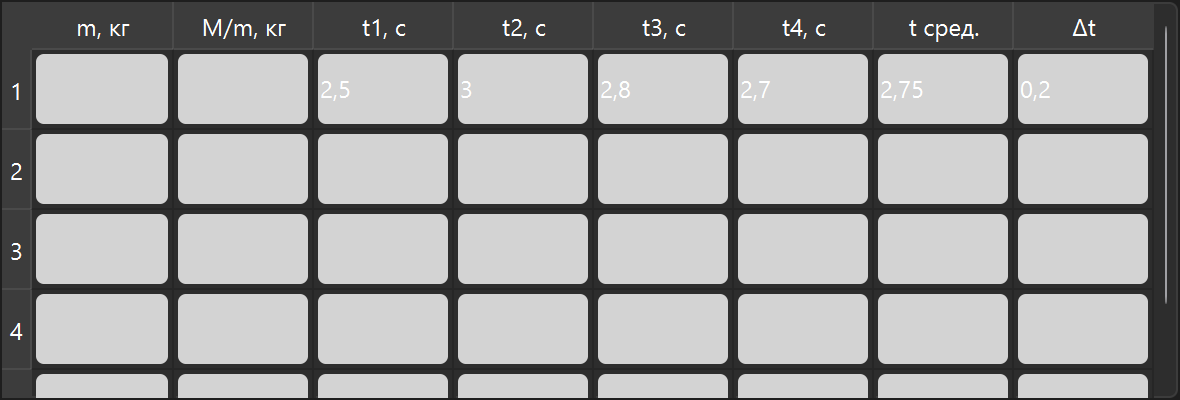
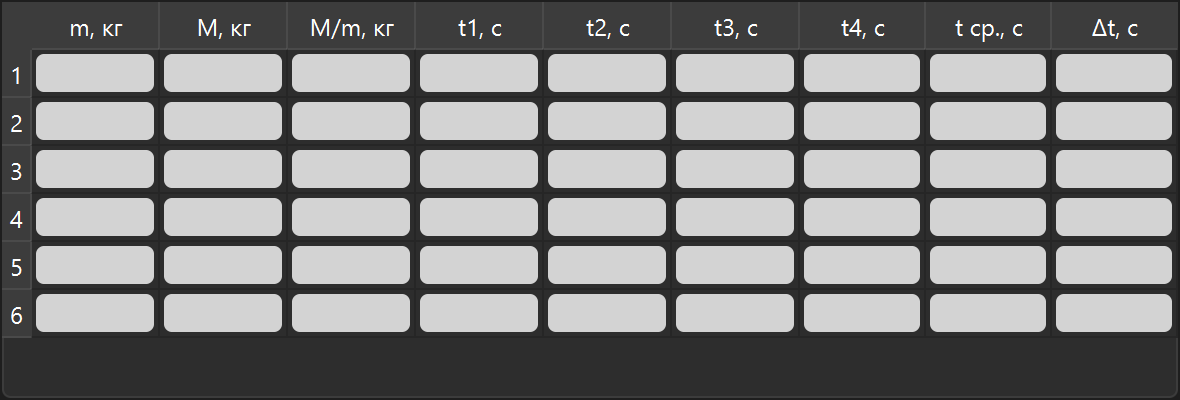
fix table1 and table2 layout titles

diff --git a/Table_1.py b/Table_1.py
@@ -12,7 +12,8 @@ class Ui_Table_1(object):
         self.tableView1.horizontalHeader().setCascadingSectionResizes(False)
         self.tableView1.horizontalHeader().setDefaultSectionSize(40)
         self.tableView1.horizontalHeader().setSortIndicatorShown(False)
-        self.tableView1.verticalHeader().setDefaultSectionSize(40)
+        self.tableView1.verticalHeader().setDefaultSectionSize(20)
+
         self.saveButton = QtWidgets.QPushButton(parent=Table_1)
         self.saveButton.setGeometry(QtCore.QRect(500, 340, 100, 50))
         self.saveButton.setObjectName('saveButton')

diff --git a/Table_2.py b/Table_2.py
@@ -12,7 +12,7 @@ class Ui_Table_2(object):
         self.tableView2.horizontalHeader().setCascadingSectionResizes(False)
         self.tableView2.horizontalHeader().setDefaultSectionSize(40)
         self.tableView2.horizontalHeader().setSortIndicatorShown(False)
-        self.tableView2.verticalHeader().setDefaultSectionSize(40)
+        self.tableView2.verticalHeader().setDefaultSectionSize(20)
         self.saveButton = QtWidgets.QPushButton(parent=Table_2)
         self.saveButton.setGeometry(QtCore.QRect(500, 340, 100, 50))
         self.saveButton.setObjectName('saveButton')

diff --git a/main.py b/main.py
@@ -285,7 +285,7 @@ class Table2(QtWidgets.QMainWindow, Table_2.Ui_Table_2):
 
     def _initModel(self):
         data = initTable2()
-        header = ['m, кг', 'M/m, кг', 't1, с', 't2, с', 't3, с', 't4, с', 't сред.', 'Δt']
+        header = ['m, кг', 'M, кг', 'M/m, кг', 't1, с', 't2, с', 't3, с', 't4, с', 't ср., с', 'Δt, с']
         vheader = None
         customID = 2
         self.rowC = int(len(data))
